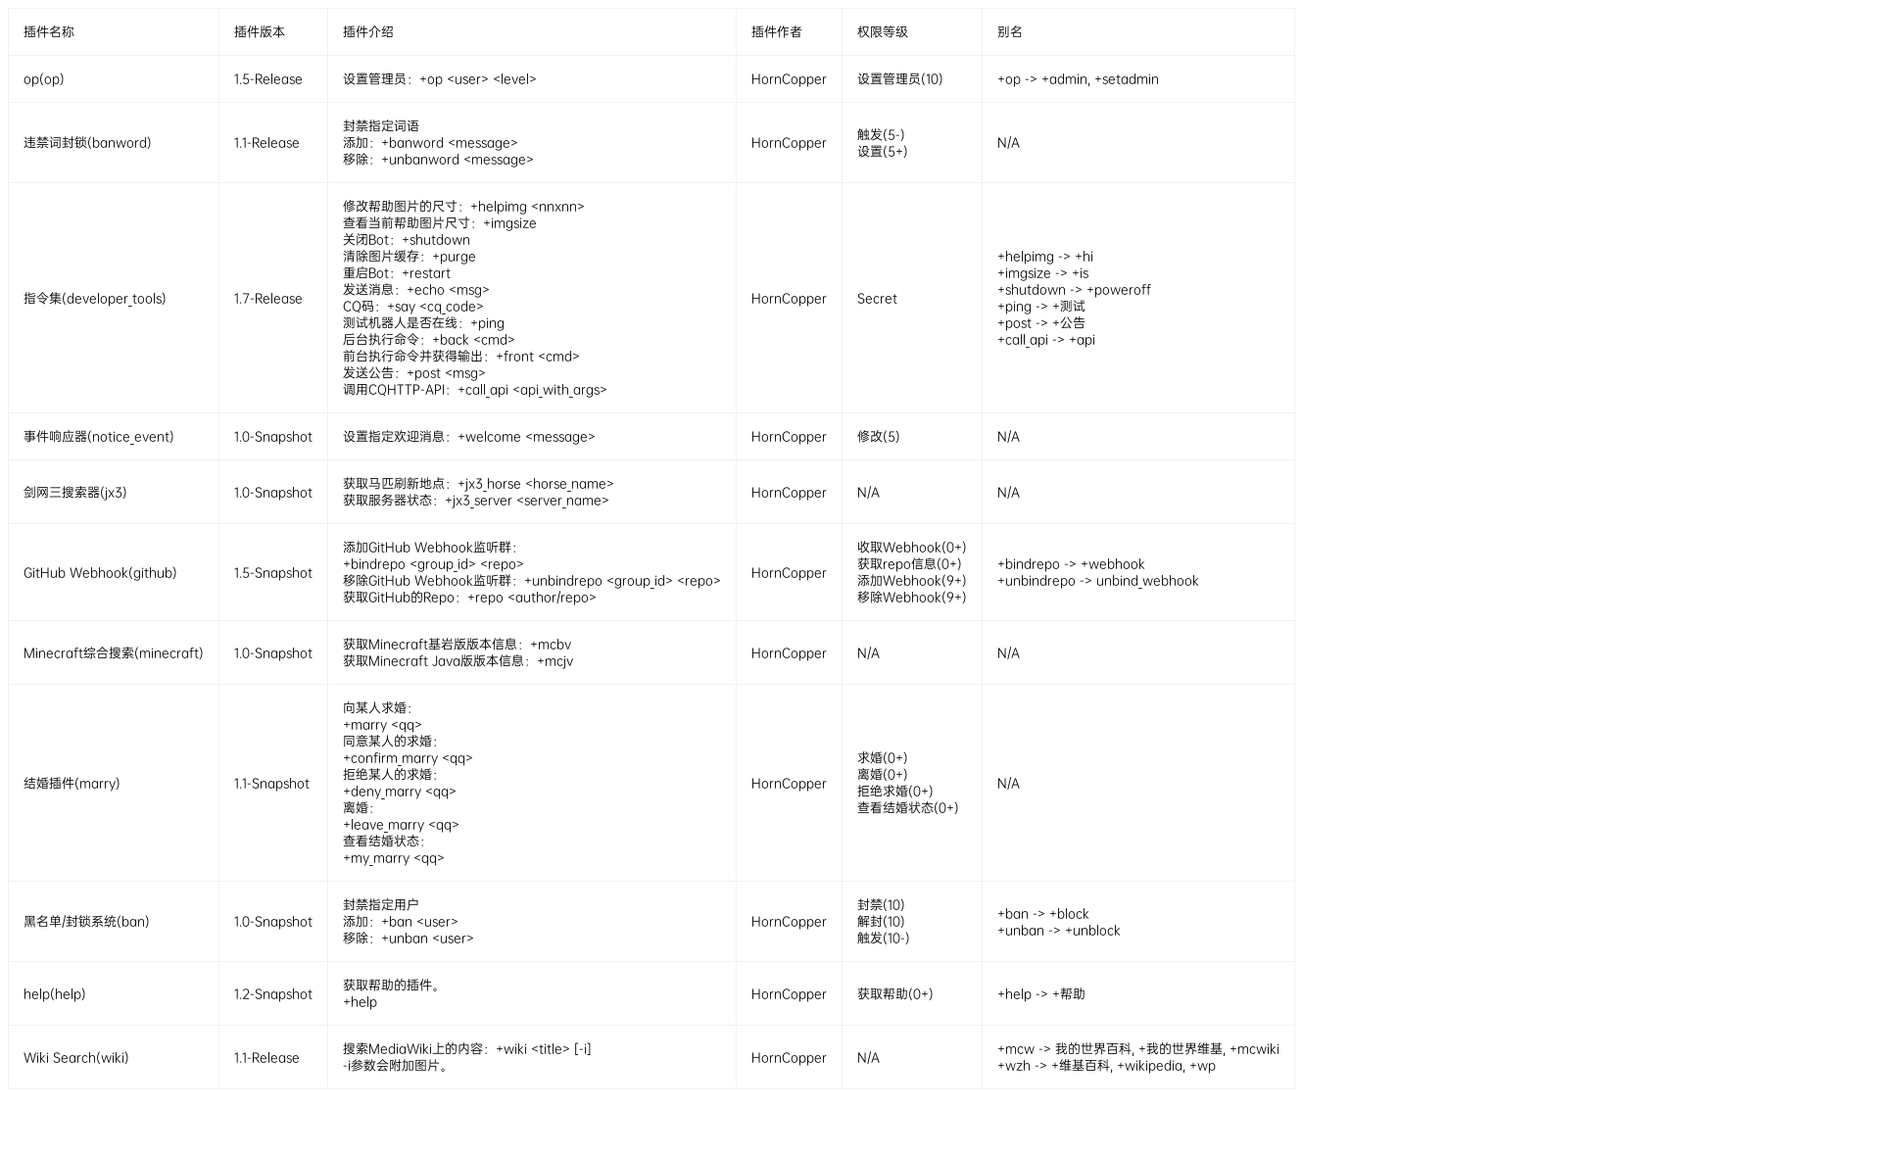
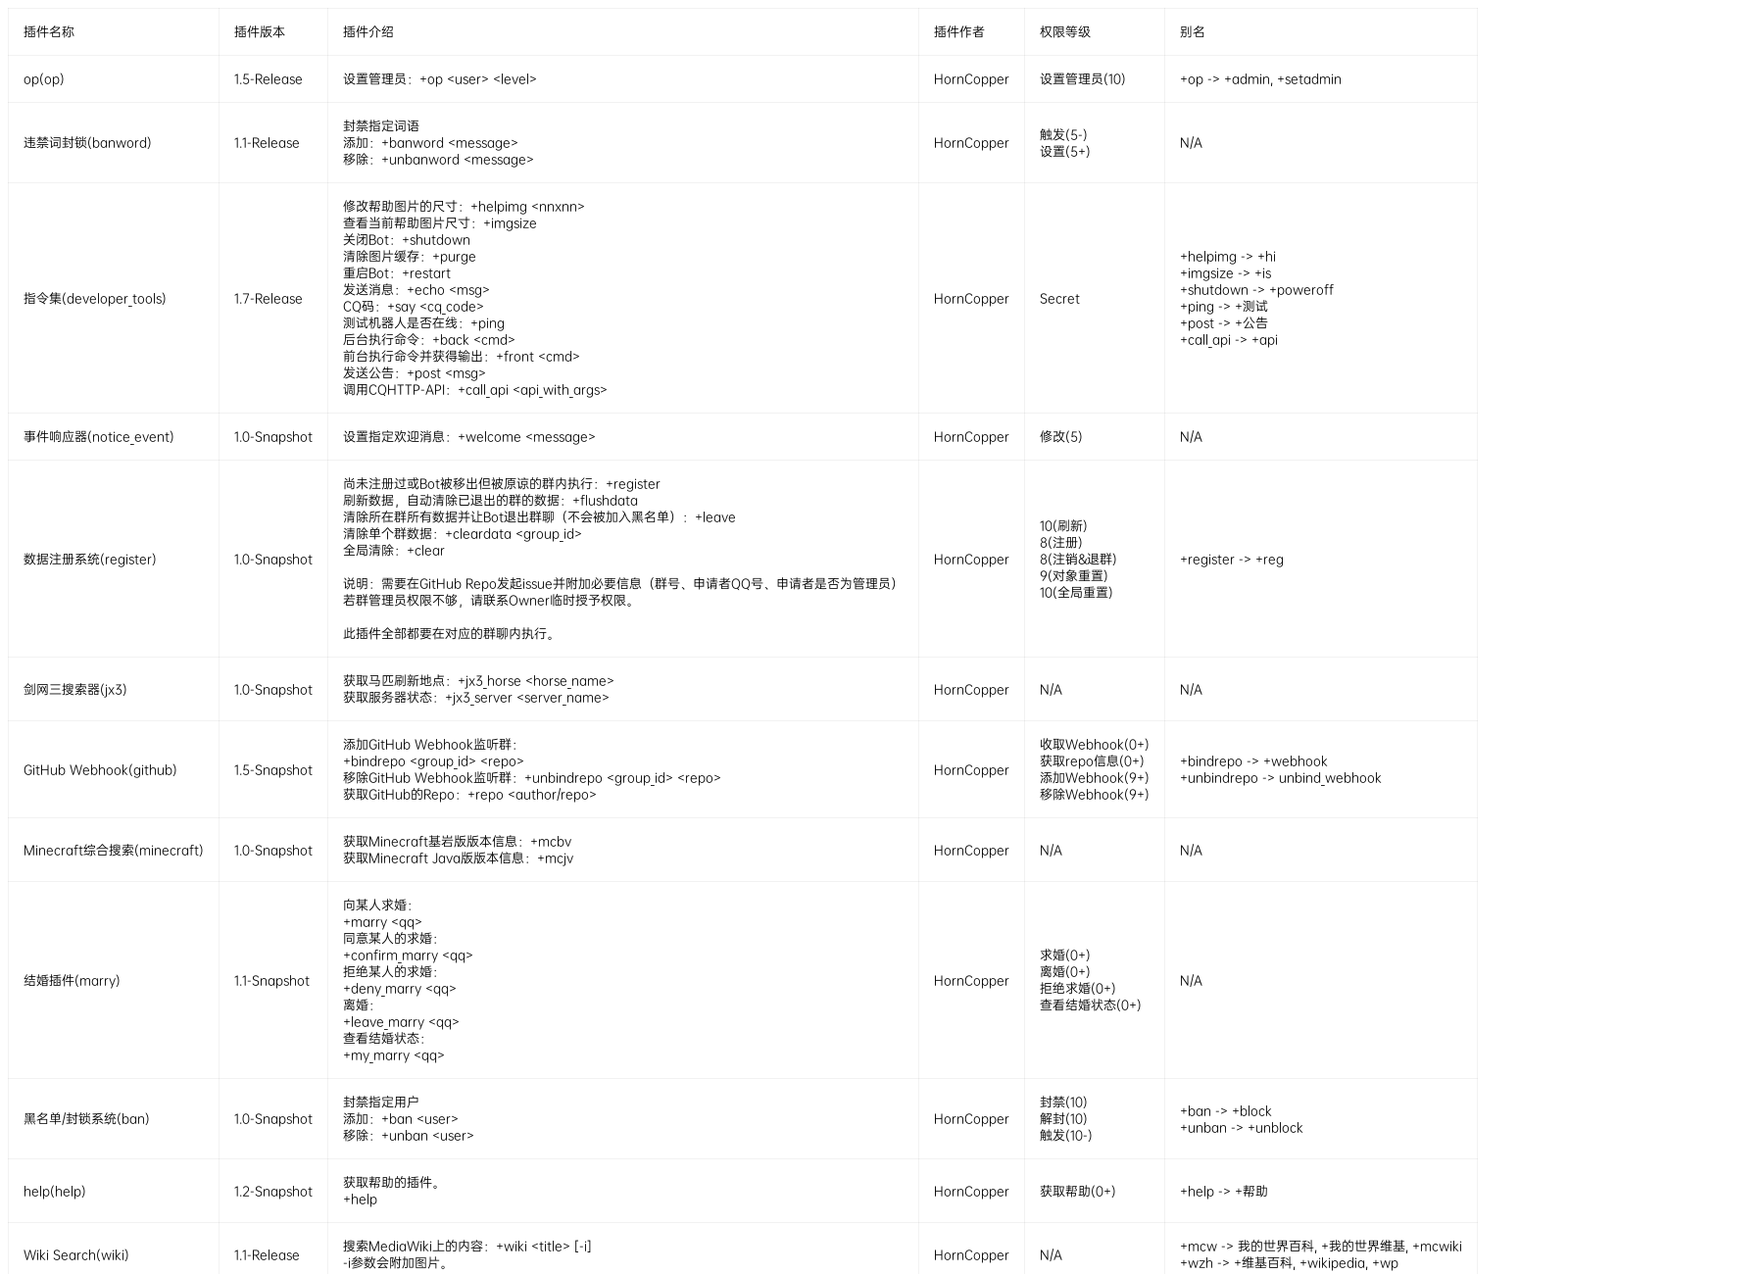
测试QQ上传Git

diff --git a/src/plugins/help/help.html b/src/plugins/help/help.html
@@ -1,19 +1,20 @@
 <div style="font-family:Custom"><table>
 <thead>
-<tr><th>插件名称                    </th><th>插件版本    </th><th>插件介绍                                                                                                                                                                                                                                                                                                                         </th><th>插件作者  </th><th>权限等级                                                        </th><th>别名                                                                                                  </th></tr>
+<tr><th>插件名称                    </th><th>插件版本    </th><th>插件介绍                                                                                                                                                                                                                                                                                                                                                                                        </th><th>插件作者  </th><th>权限等级                                                        </th><th>别名                                                                                                  </th></tr>
 </thead>
 <tbody>
-<tr><td>op(op)                      </td><td>1.5-Release </td><td>设置管理员：+op &lt;user&gt; &lt;level&gt;                                                                                                                                                                                                                                                                                                   </td><td>HornCopper</td><td>设置管理员(10)                                                  </td><td>+op -&gt; +admin, +setadmin                                                                              </td></tr>
-<tr><td>违禁词封锁(banword)         </td><td>1.1-Release </td><td>封禁指定词语<br>添加：+banword &lt;message&gt;<br>移除：+unbanword &lt;message&gt;                                                                                                                                                                                                                                                                 </td><td>HornCopper</td><td>触发(5-)<br>设置(5+)                                               </td><td>N/A                                                                                                   </td></tr>
-<tr><td>指令集(developer_tools)     </td><td>1.7-Release </td><td>修改帮助图片的尺寸：+helpimg &lt;nnxnn&gt;<br>查看当前帮助图片尺寸：+imgsize<br>关闭Bot：+shutdown<br>清除图片缓存：+purge<br>重启Bot：+restart<br>发送消息：+echo &lt;msg&gt;<br>CQ码：+say &lt;cq_code&gt;<br>测试机器人是否在线：+ping<br>后台执行命令：+back &lt;cmd&gt;<br>前台执行命令并获得输出：+front &lt;cmd&gt;<br>发送公告：+post &lt;msg&gt;<br>调用CQHTTP-API：+call_api &lt;api_with_args&gt;</td><td>HornCopper</td><td>Secret                                                          </td><td>+helpimg -&gt; +hi<br>+imgsize -&gt; +is<br>+shutdown -&gt; +poweroff<br>+ping -&gt; +测试<br>+post -&gt; +公告<br>+call_api -&gt; +api</td></tr>
-<tr><td>事件响应器(notice_event)    </td><td>1.0-Snapshot</td><td>设置指定欢迎消息：+welcome &lt;message&gt;                                                                                                                                                                                                                                                                                             </td><td>HornCopper</td><td>修改(5)                                                         </td><td>N/A                                                                                                   </td></tr>
-<tr><td>剑网三搜索器(jx3)           </td><td>1.0-Snapshot</td><td>获取马匹刷新地点：+jx3_horse &lt;horse_name&gt;<br>获取服务器状态：+jx3_server &lt;server_name&gt;                                                                                                                                                                                                                                              </td><td>HornCopper</td><td>N/A                                                             </td><td>N/A                                                                                                   </td></tr>
-<tr><td>GitHub Webhook(github)      </td><td>1.5-Snapshot</td><td>添加GitHub Webhook监听群：<br>+bindrepo &lt;group_id&gt; &lt;repo&gt;<br>移除GitHub Webhook监听群：+unbindrepo &lt;group_id&gt; &lt;repo&gt;<br>获取GitHub的Repo：+repo &lt;author/repo&gt;                                                                                                                                                                             </td><td>HornCopper</td><td>收取Webhook(0+)<br>获取repo信息(0+)<br>添加Webhook(9+)<br>移除Webhook(9+)</td><td>+bindrepo -&gt; +webhook<br>+unbindrepo -&gt; unbind_webhook                                                   </td></tr>
-<tr><td>Minecraft综合搜索(minecraft)</td><td>1.0-Snapshot</td><td>获取Minecraft基岩版版本信息：+mcbv<br>获取Minecraft Java版版本信息：+mcjv                                                                                                                                                                                                                                                           </td><td>HornCopper</td><td>N/A                                                             </td><td>N/A                                                                                                   </td></tr>
-<tr><td>结婚插件(marry)             </td><td>1.1-Snapshot</td><td>向某人求婚：<br>+marry &lt;qq&gt;<br>同意某人的求婚：<br>+confirm_marry &lt;qq&gt;<br>拒绝某人的求婚：<br>+deny_marry &lt;qq&gt;<br>离婚：<br>+leave_marry &lt;qq&gt;<br>查看结婚状态：<br>+my_marry &lt;qq&gt;                                                                                                                                                                           </td><td>HornCopper</td><td>求婚(0+)<br>离婚(0+)<br>拒绝求婚(0+)<br>查看结婚状态(0+)                 </td><td>N/A                                                                                                   </td></tr>
-<tr><td>黑名单/封锁系统(ban)        </td><td>1.0-Snapshot</td><td>封禁指定用户<br>添加：+ban &lt;user&gt;<br>移除：+unban &lt;user&gt;                                                                                                                                                                                                                                                                               </td><td>HornCopper</td><td>封禁(10)<br>解封(10)<br>触发(10-)                                     </td><td>+ban -&gt; +block<br>+unban -&gt; +unblock                                                                     </td></tr>
-<tr><td>help(help)                  </td><td>1.2-Snapshot</td><td>获取帮助的插件。<br>+help                                                                                                                                                                                                                                                                                                           </td><td>HornCopper</td><td>获取帮助(0+)                                                    </td><td>+help -&gt; +帮助                                                                                        </td></tr>
-<tr><td>Wiki Search(wiki)           </td><td>1.1-Release </td><td>搜索MediaWiki上的内容：+wiki &lt;title&gt; [-i]<br>-i参数会附加图片。                                                                                                                                                                                                                                                                     </td><td>HornCopper</td><td>N/A                                                             </td><td>+mcw -&gt; 我的世界百科, +我的世界维基, +mcwiki<br>+wzh -&gt; +维基百科, +wikipedia, +wp                       </td></tr>
+<tr><td>op(op)                      </td><td>1.5-Release </td><td>设置管理员：+op &lt;user&gt; &lt;level&gt;                                                                                                                                                                                                                                                                                                                                                                  </td><td>HornCopper</td><td>设置管理员(10)                                                  </td><td>+op -&gt; +admin, +setadmin                                                                              </td></tr>
+<tr><td>违禁词封锁(banword)         </td><td>1.1-Release </td><td>封禁指定词语<br>添加：+banword &lt;message&gt;<br>移除：+unbanword &lt;message&gt;                                                                                                                                                                                                                                                                                                                                </td><td>HornCopper</td><td>触发(5-)<br>设置(5+)                                               </td><td>N/A                                                                                                   </td></tr>
+<tr><td>指令集(developer_tools)     </td><td>1.7-Release </td><td>修改帮助图片的尺寸：+helpimg &lt;nnxnn&gt;<br>查看当前帮助图片尺寸：+imgsize<br>关闭Bot：+shutdown<br>清除图片缓存：+purge<br>重启Bot：+restart<br>发送消息：+echo &lt;msg&gt;<br>CQ码：+say &lt;cq_code&gt;<br>测试机器人是否在线：+ping<br>后台执行命令：+back &lt;cmd&gt;<br>前台执行命令并获得输出：+front &lt;cmd&gt;<br>发送公告：+post &lt;msg&gt;<br>调用CQHTTP-API：+call_api &lt;api_with_args&gt;                                                               </td><td>HornCopper</td><td>Secret                                                          </td><td>+helpimg -&gt; +hi<br>+imgsize -&gt; +is<br>+shutdown -&gt; +poweroff<br>+ping -&gt; +测试<br>+post -&gt; +公告<br>+call_api -&gt; +api</td></tr>
+<tr><td>事件响应器(notice_event)    </td><td>1.0-Snapshot</td><td>设置指定欢迎消息：+welcome &lt;message&gt;                                                                                                                                                                                                                                                                                                                                                            </td><td>HornCopper</td><td>修改(5)                                                         </td><td>N/A                                                                                                   </td></tr>
+<tr><td>数据注册系统(register)      </td><td>1.0-Snapshot</td><td>尚未注册过或Bot被移出但被原谅的群内执行：+register<br>刷新数据，自动清除已退出的群的数据：+flushdata<br>清除所在群所有数据并让Bot退出群聊（不会被加入黑名单）：+leave<br>清除单个群数据：+cleardata &lt;group_id&gt;<br>全局清除：+clear<br><br>说明：需要在GitHub Repo发起issue并附加必要信息（群号、申请者QQ号、申请者是否为管理员）<br>若群管理员权限不够，请联系Owner临时授予权限。<br><br>此插件全部都要在对应的群聊内执行。</td><td>HornCopper</td><td>10(刷新)<br>8(注册)<br>8(注销&amp;退群)<br>9(对象重置)<br>10(全局重置)          </td><td>+register -&gt; +reg                                                                                     </td></tr>
+<tr><td>剑网三搜索器(jx3)           </td><td>1.0-Snapshot</td><td>获取马匹刷新地点：+jx3_horse &lt;horse_name&gt;<br>获取服务器状态：+jx3_server &lt;server_name&gt;                                                                                                                                                                                                                                                                                                             </td><td>HornCopper</td><td>N/A                                                             </td><td>N/A                                                                                                   </td></tr>
+<tr><td>GitHub Webhook(github)      </td><td>1.5-Snapshot</td><td>添加GitHub Webhook监听群：<br>+bindrepo &lt;group_id&gt; &lt;repo&gt;<br>移除GitHub Webhook监听群：+unbindrepo &lt;group_id&gt; &lt;repo&gt;<br>获取GitHub的Repo：+repo &lt;author/repo&gt;                                                                                                                                                                                                                                            </td><td>HornCopper</td><td>收取Webhook(0+)<br>获取repo信息(0+)<br>添加Webhook(9+)<br>移除Webhook(9+)</td><td>+bindrepo -&gt; +webhook<br>+unbindrepo -&gt; unbind_webhook                                                   </td></tr>
+<tr><td>Minecraft综合搜索(minecraft)</td><td>1.0-Snapshot</td><td>获取Minecraft基岩版版本信息：+mcbv<br>获取Minecraft Java版版本信息：+mcjv                                                                                                                                                                                                                                                                                                                          </td><td>HornCopper</td><td>N/A                                                             </td><td>N/A                                                                                                   </td></tr>
+<tr><td>结婚插件(marry)             </td><td>1.1-Snapshot</td><td>向某人求婚：<br>+marry &lt;qq&gt;<br>同意某人的求婚：<br>+confirm_marry &lt;qq&gt;<br>拒绝某人的求婚：<br>+deny_marry &lt;qq&gt;<br>离婚：<br>+leave_marry &lt;qq&gt;<br>查看结婚状态：<br>+my_marry &lt;qq&gt;                                                                                                                                                                                                                                          </td><td>HornCopper</td><td>求婚(0+)<br>离婚(0+)<br>拒绝求婚(0+)<br>查看结婚状态(0+)                 </td><td>N/A                                                                                                   </td></tr>
+<tr><td>黑名单/封锁系统(ban)        </td><td>1.0-Snapshot</td><td>封禁指定用户<br>添加：+ban &lt;user&gt;<br>移除：+unban &lt;user&gt;                                                                                                                                                                                                                                                                                                                                              </td><td>HornCopper</td><td>封禁(10)<br>解封(10)<br>触发(10-)                                     </td><td>+ban -&gt; +block<br>+unban -&gt; +unblock                                                                     </td></tr>
+<tr><td>help(help)                  </td><td>1.2-Snapshot</td><td>获取帮助的插件。<br>+help                                                                                                                                                                                                                                                                                                                                                                          </td><td>HornCopper</td><td>获取帮助(0+)                                                    </td><td>+help -&gt; +帮助                                                                                        </td></tr>
+<tr><td>Wiki Search(wiki)           </td><td>1.1-Release </td><td>搜索MediaWiki上的内容：+wiki &lt;title&gt; [-i]<br>-i参数会附加图片。                                                                                                                                                                                                                                                                                                                                    </td><td>HornCopper</td><td>N/A                                                             </td><td>+mcw -&gt; 我的世界百科, +我的世界维基, +mcwiki<br>+wzh -&gt; +维基百科, +wikipedia, +wp                       </td></tr>
 </tbody>
 </table></div>
 <style>

diff --git a/src/plugins/event_notice/__init__.py b/src/plugins/event_notice/__init__.py
@@ -8,6 +8,7 @@ TOOLS = nonebot.get_driver().config.tools_path
 sys.path.append(str(TOOLS))
 from permission import checker, error
 from file import read, write
+from config import Config
 
 notice = on_notice(priority=5)
 
@@ -24,7 +25,11 @@ async def _(bot: Bot, event: NoticeEvent):
     if event.notice_type == "group_increase":
         obj = event.user_id
         group = event.group_id
-        msg = ms.at(obj) + read(TOOLS+"/welcome.txt")
+        bot = Config.bot
+        if obj == bot[0]:
+            msg = "欢迎使用Inkar Suki！如需帮助请发送+help或查询文档哦~\nhttps://www.inkar-suki.xyz"
+        else:
+            msg = ms.at(obj) + read(TOOLS+"/welcome.txt")
         await bot.call_api("send_group_msg",group_id=group, message=msg)
     elif event.notice_type == "group_decrease":
         if event.sub_type == "kick_me":

diff --git a/src/tools/config.py b/src/tools/config.py
@@ -2,7 +2,7 @@ from local_version import local_version, nonebot_version
 class Config:
     global_path = "/root/Inkar-Suki/src/" #全局路径
     web_path = "/webhook" #意思是http://127.0.0.1:2333/webhook即为Webhook接收地址，2333端口在.env.dev中定义过了
-    bot = ["3438531564"] #公共实例QQ号
+    bot = ["3438531564"] #公共实例QQ号，最好只写一个
     platform = True #使用Debian 11
     owner = ["3349104868"] #作者QQ号，这里填主人的QQ就可以了
     size = global_path+"/tools/size.txt" #帮助图片的尺寸，保存为文本文件的路径，格式不限

diff --git a/src/plugins/banword/__init__.py b/src/plugins/banword/__init__.py
@@ -47,7 +47,7 @@ async def ___(event: Event, args: Message = CommandArg()):
             await unbanword.finish("您解封了什么？")
     else:
         await unbanword.finish("您解封了什么？")
-banned_word = on_message(priority=2, block=False)
+banned_word = on_message(priority=3, block=False)
 @banned_word.handle()
 async def _(matcher: Matcher, bot: Bot, event: GroupMessageEvent):
     if checker(str(event.user_id),5):

diff --git a/src/plugins/ban/__init__.py b/src/plugins/ban/__init__.py
@@ -55,7 +55,7 @@ async def _(bot: Bot, event: Event, args: Message = CommandArg()):
             now.remove(i)
     write(TOOLS+"/ban.json", json.dumps(now))
     await ban.finish(f"好的，已经解封{sb_name}({sb})。")
-banned = on_message(priority=1,block=False)
+banned = on_message(priority=2,block=False)
 @banned.handle()
 async def _(matcher: Matcher, event: Event):
     info = json.loads(read(TOOLS+"/webhook.json"))

diff --git a/src/plugins/developer_tools/__init__.py b/src/plugins/developer_tools/__init__.py
@@ -36,7 +36,7 @@ imgsize = on_command("imgsize",aliases={"is"},priority=5)
 async def __(bot: Bot, event: Event):
     if checker(str(event.user_id),9) == False:
         await bot.finish(error(9))
-    size = read(Config.size_path)
+    size = read(Config.size)
     await imgsize.finish("查到啦！当前图片尺寸为"+size+"。")
 purge = on_command("purge",priority=5)
 
